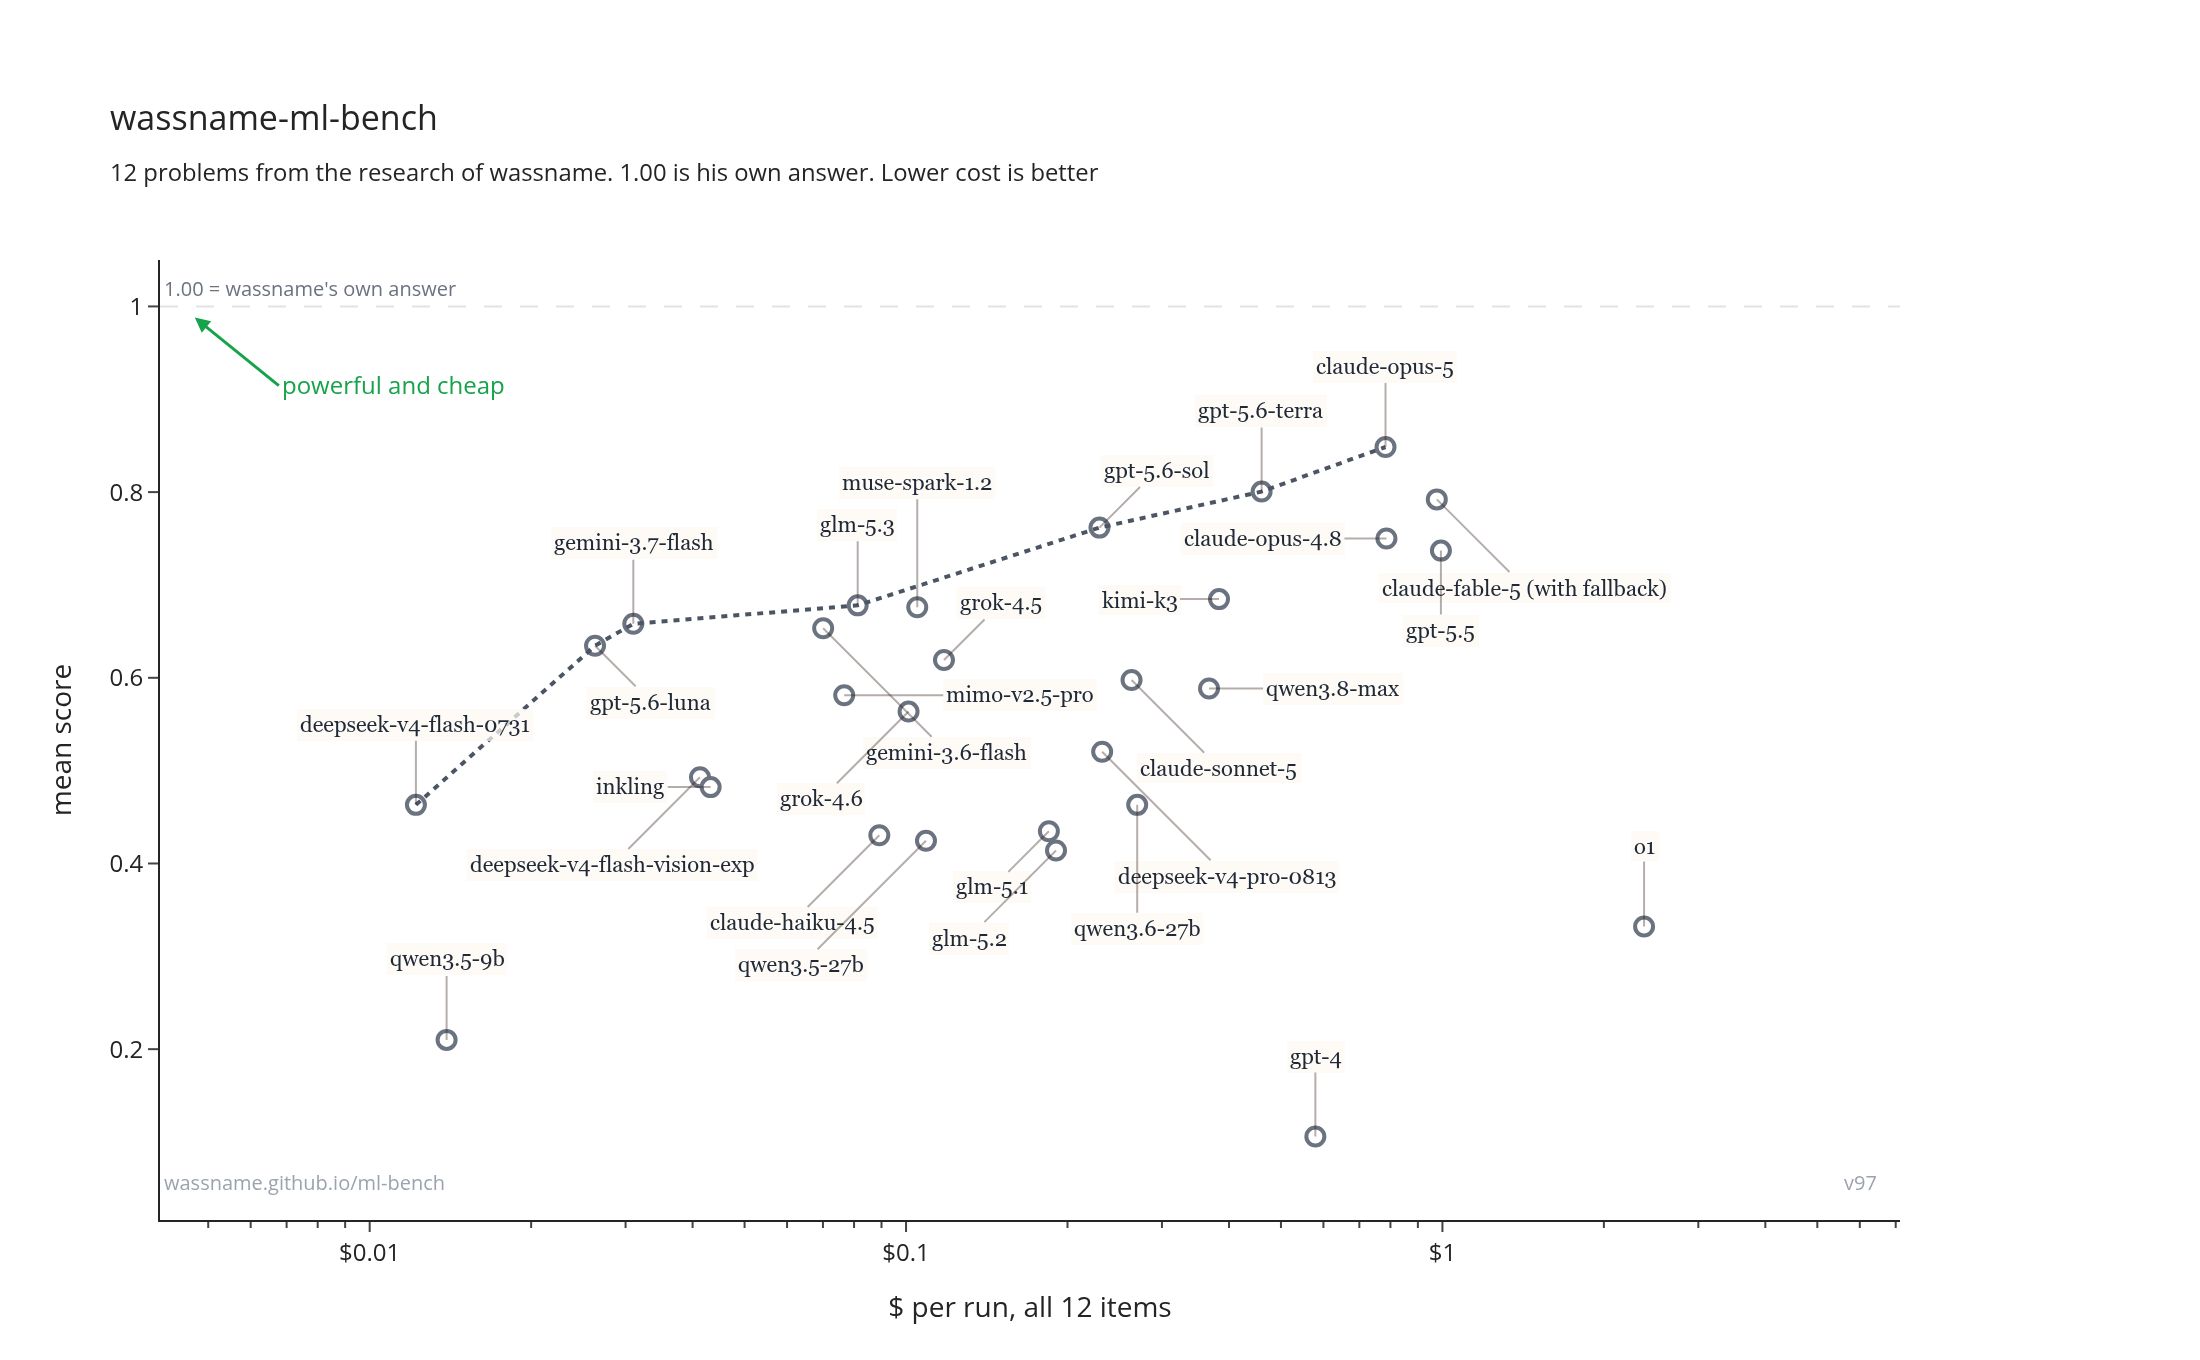
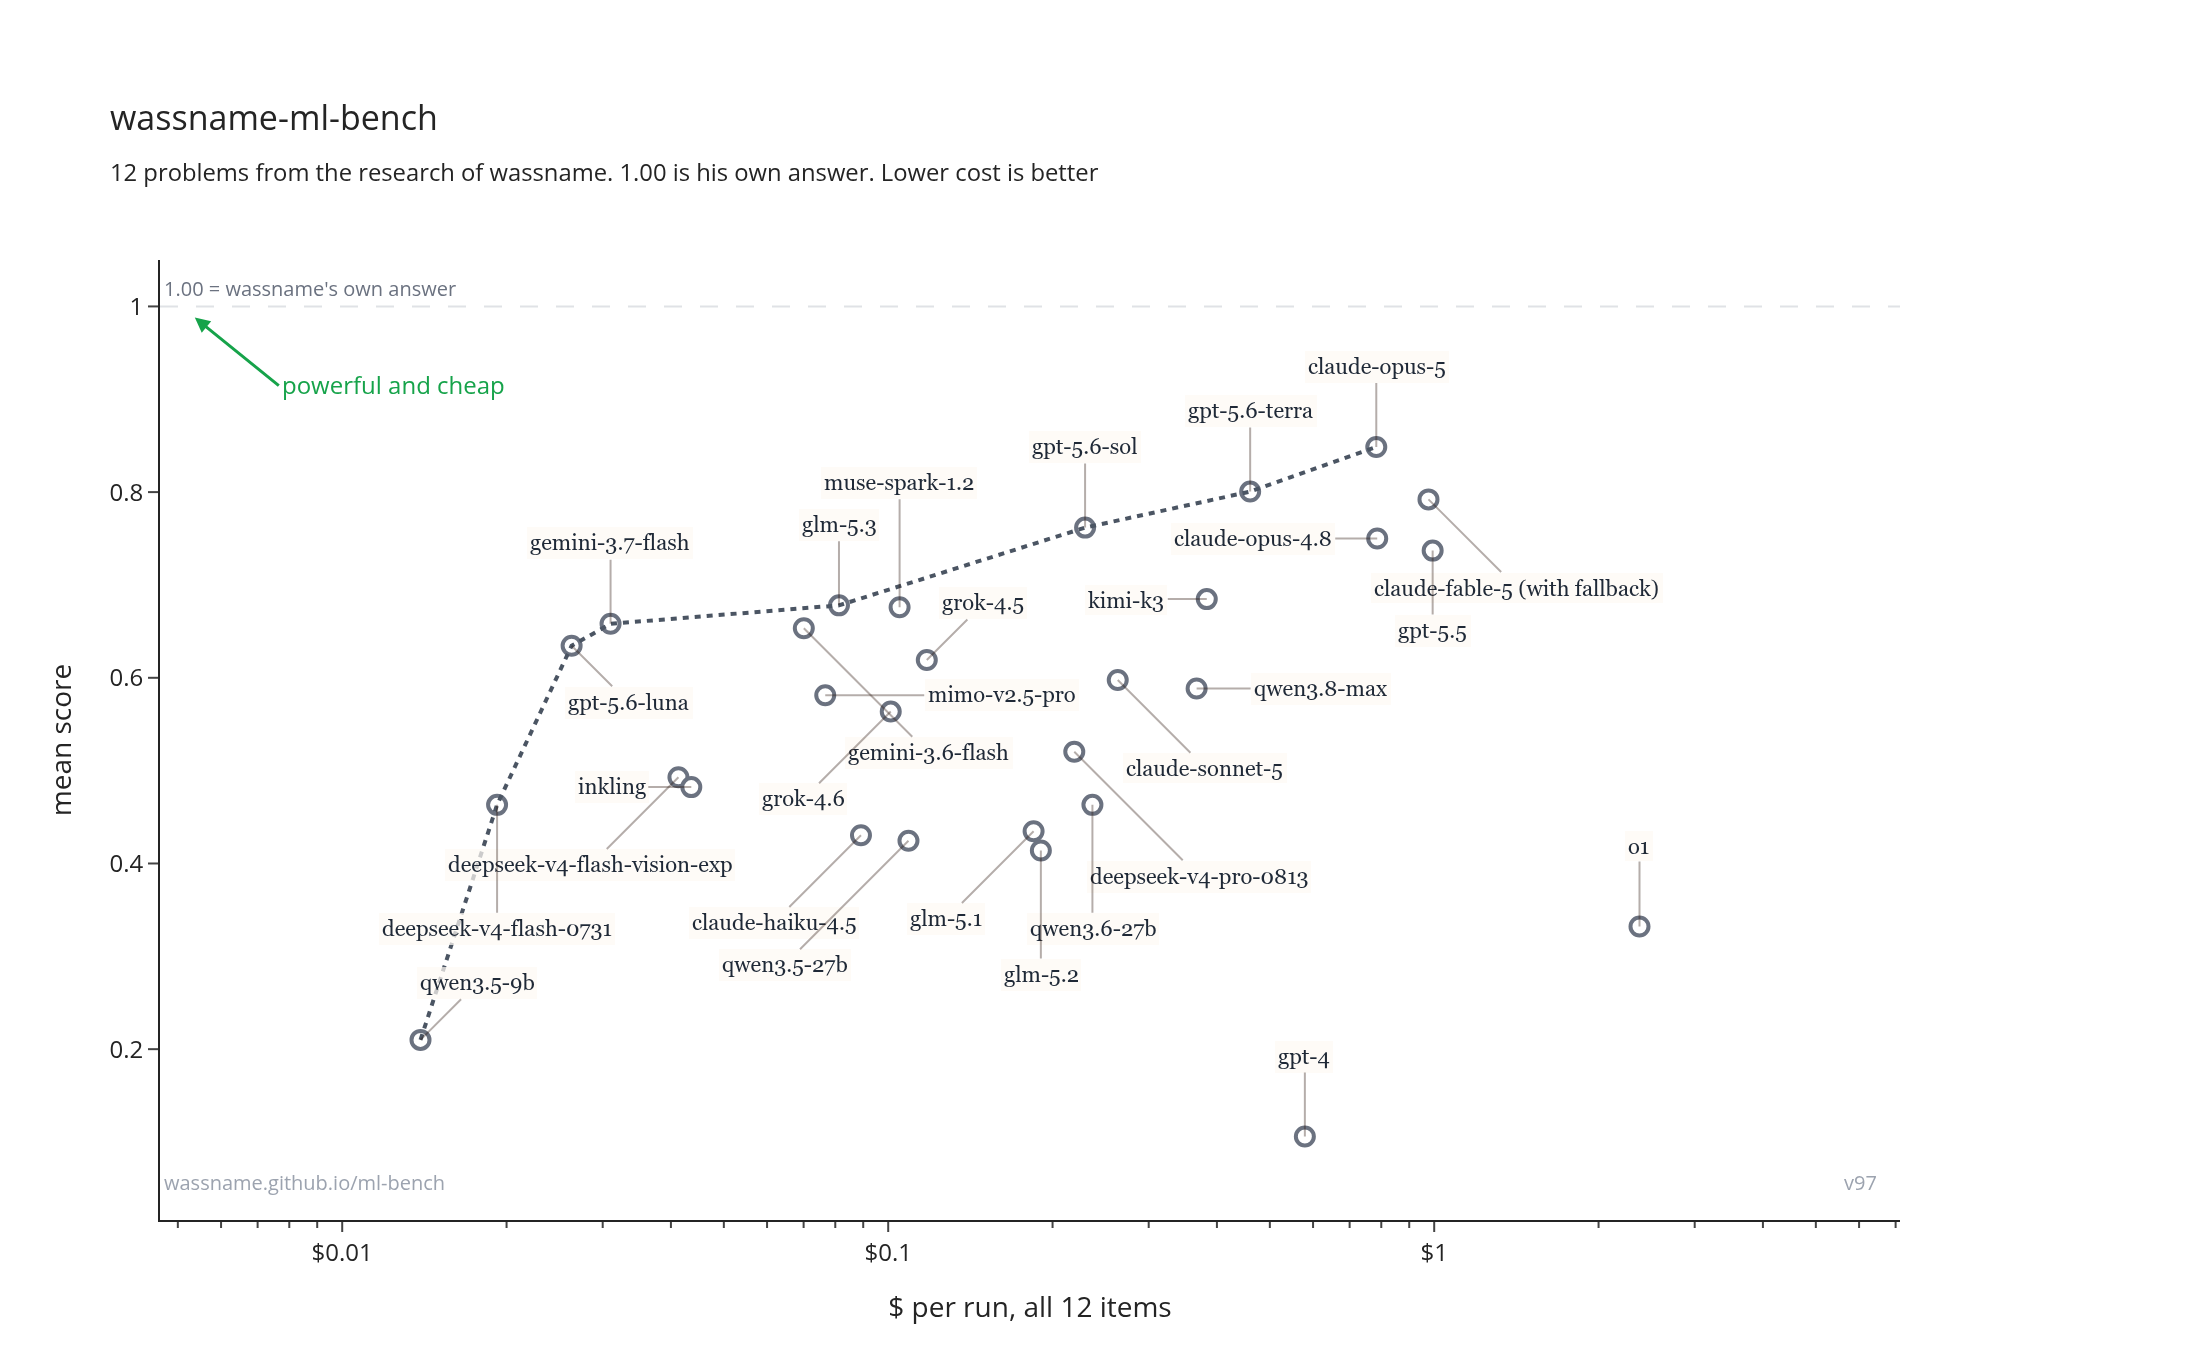
results 2026-08-24

diff --git a/results.md b/results.md
@@ -6,7 +6,8 @@
 Which machine learning model should you work with? This bench asks twelve questions from
 [wassname](https://wassname.org)'s own research and scores each answer against the one he reached at
 the time, so 1.00 is his answer. The work is obscure and some of it is newer than the models, which
-means a model has to work the answer out rather than recall it.
+means a model has to work the answer out rather than recall it. Code and numbers:
+[github.com/wassname/ml-bench](https://github.com/wassname/ml-bench).
 
 ## Score against cost
 
@@ -35,11 +36,11 @@ means a model has to work the answer out rather than recall it.
 | qwen3.8-max                    |             +0.59 | ±0.079 | 12/12                  |           1 |    $0.37 |                       4,123 |                      12 |                   **+0.80** |                            +0.02 |                        +0.72 |                +0.22 |                 +0.88 |                     +0.94 |                 +0.61 |                  +0.43 |                  +0.56 |                         +0.62 |                           +0.44 |                 +0.82 |
 | mimo-v2.5-pro                  |             +0.58 | ±0.070 | 12/12                  |           1 |   $0.077 |                       5,178 |                       9 |                       +0.73 |                            +0.13 |                        +0.43 |                +0.24 |                 +0.87 |                     +0.95 |                 +0.56 |                  +0.61 |                  +0.62 |                         +0.59 |                           +0.47 |                 +0.77 |
 | grok-4.6                       |             +0.56 | ±0.075 | 12/12                  |           1 |    $0.10 |                       1,169 |                      40 |                       +0.69 |                            -0.03 |                        +0.40 |                +0.29 |                 +0.76 |                     +0.85 |                 +0.58 |                  +0.66 |                  +0.61 |                         +0.53 |                           +0.51 |                 +0.92 |
-| deepseek-v4-pro-0813           |             +0.52 | ±0.067 | 12/12                  |           1 |    $0.23 |                       5,026 |                       9 |                       +0.63 |                            -0.06 |                        +0.51 |                +0.34 |                 +0.59 |                     +0.87 |                 +0.60 |                  +0.40 |                  +0.71 |                         +0.64 |                           +0.58 |                 +0.45 |
+| deepseek-v4-pro-0813           |             +0.52 | ±0.067 | 12/12                  |           1 |    $0.22 |                       5,026 |                       9 |                       +0.63 |                            -0.06 |                        +0.51 |                +0.34 |                 +0.59 |                     +0.87 |                 +0.60 |                  +0.40 |                  +0.71 |                         +0.64 |                           +0.58 |                 +0.45 |
 | deepseek-v4-flash-vision-exp   |             +0.49 | ±0.082 | 12/12                  |           1 |   $0.041 |                       4,978 |                       8 |                       +0.69 |                            -0.08 |                        +0.35 |                +0.06 |                 +0.76 |                     +0.91 |                 +0.64 |                  +0.63 |                  +0.34 |                         +0.51 |                           +0.52 |                 +0.57 |
-| inkling                        |             +0.48 | ±0.076 | 12/12                  |           1 |   $0.043 |                         745 |                  **54** |                       +0.73 |                            -0.06 |                        +0.25 |                +0.20 |                 +0.92 |                     +0.60 |                 +0.59 |                  +0.51 |                  +0.46 |                         +0.45 |                           +0.42 |                 +0.71 |
-| qwen3.6-27b                    |             +0.46 | ±0.080 | 12/12                  |           1 |    $0.27 |                       6,038 |                       6 |                       +0.24 |                            -0.04 |                        +0.34 |                +0.17 |                 +0.86 |                     +0.97 |                 +0.58 |                  +0.45 |                  +0.53 |                         +0.49 |                           +0.53 |                 +0.45 |
-| deepseek-v4-flash-0731         |             +0.46 | ±0.080 | 12/12                  |           1 |   $0.012 |                       5,062 |                       8 |                       +0.42 |                            -0.03 |                        +0.53 |                +0.15 |                 +0.84 |                     +0.94 |                 +0.69 |                  +0.28 |                  +0.43 |                         +0.27 |                           +0.46 |                 +0.57 |
+| inkling                        |             +0.48 | ±0.076 | 12/12                  |           1 |   $0.044 |                         745 |                  **54** |                       +0.73 |                            -0.06 |                        +0.25 |                +0.20 |                 +0.92 |                     +0.60 |                 +0.59 |                  +0.51 |                  +0.46 |                         +0.45 |                           +0.42 |                 +0.71 |
+| qwen3.6-27b                    |             +0.46 | ±0.080 | 12/12                  |           1 |    $0.24 |                       6,038 |                       6 |                       +0.24 |                            -0.04 |                        +0.34 |                +0.17 |                 +0.86 |                     +0.97 |                 +0.58 |                  +0.45 |                  +0.53 |                         +0.49 |                           +0.53 |                 +0.45 |
+| deepseek-v4-flash-0731         |             +0.46 | ±0.080 | 12/12                  |           1 |   $0.019 |                       5,062 |                       8 |                       +0.42 |                            -0.03 |                        +0.53 |                +0.15 |                 +0.84 |                     +0.94 |                 +0.69 |                  +0.28 |                  +0.43 |                         +0.27 |                           +0.46 |                 +0.57 |
 | glm-5.1                        |             +0.43 | ±0.077 | 12/12                  |           1 |    $0.18 |                       4,681 |                       8 |                       +0.23 |                            -0.01 |                        +0.31 |                +0.04 |                 +0.74 |                     +0.74 |                 +0.58 |                  +0.27 |                  +0.49 |                         +0.78 |                           +0.49 |                 +0.57 |
 | claude-haiku-4.5               |             +0.43 | ±0.083 | 12/12                  |           1 |   $0.089 |                       1,350 |                      27 |                       +0.72 |                            -0.07 |                        +0.34 |                +0.04 |                 +0.13 |                     +0.77 |                 +0.51 |                  +0.50 |                  +0.76 |                         +0.28 |                           +0.64 |                 +0.58 |
 | qwen3.5-27b                    |             +0.42 | ±0.072 | 12/12                  |           1 |    $0.11 |                       5,664 |                       6 |                       +0.33 |                            +0.01 |                        +0.28 |                +0.04 |                 +0.80 |                     +0.67 |                 +0.58 |                  +0.28 |                  +0.61 |                         +0.44 |                           +0.39 |                 +0.66 |
